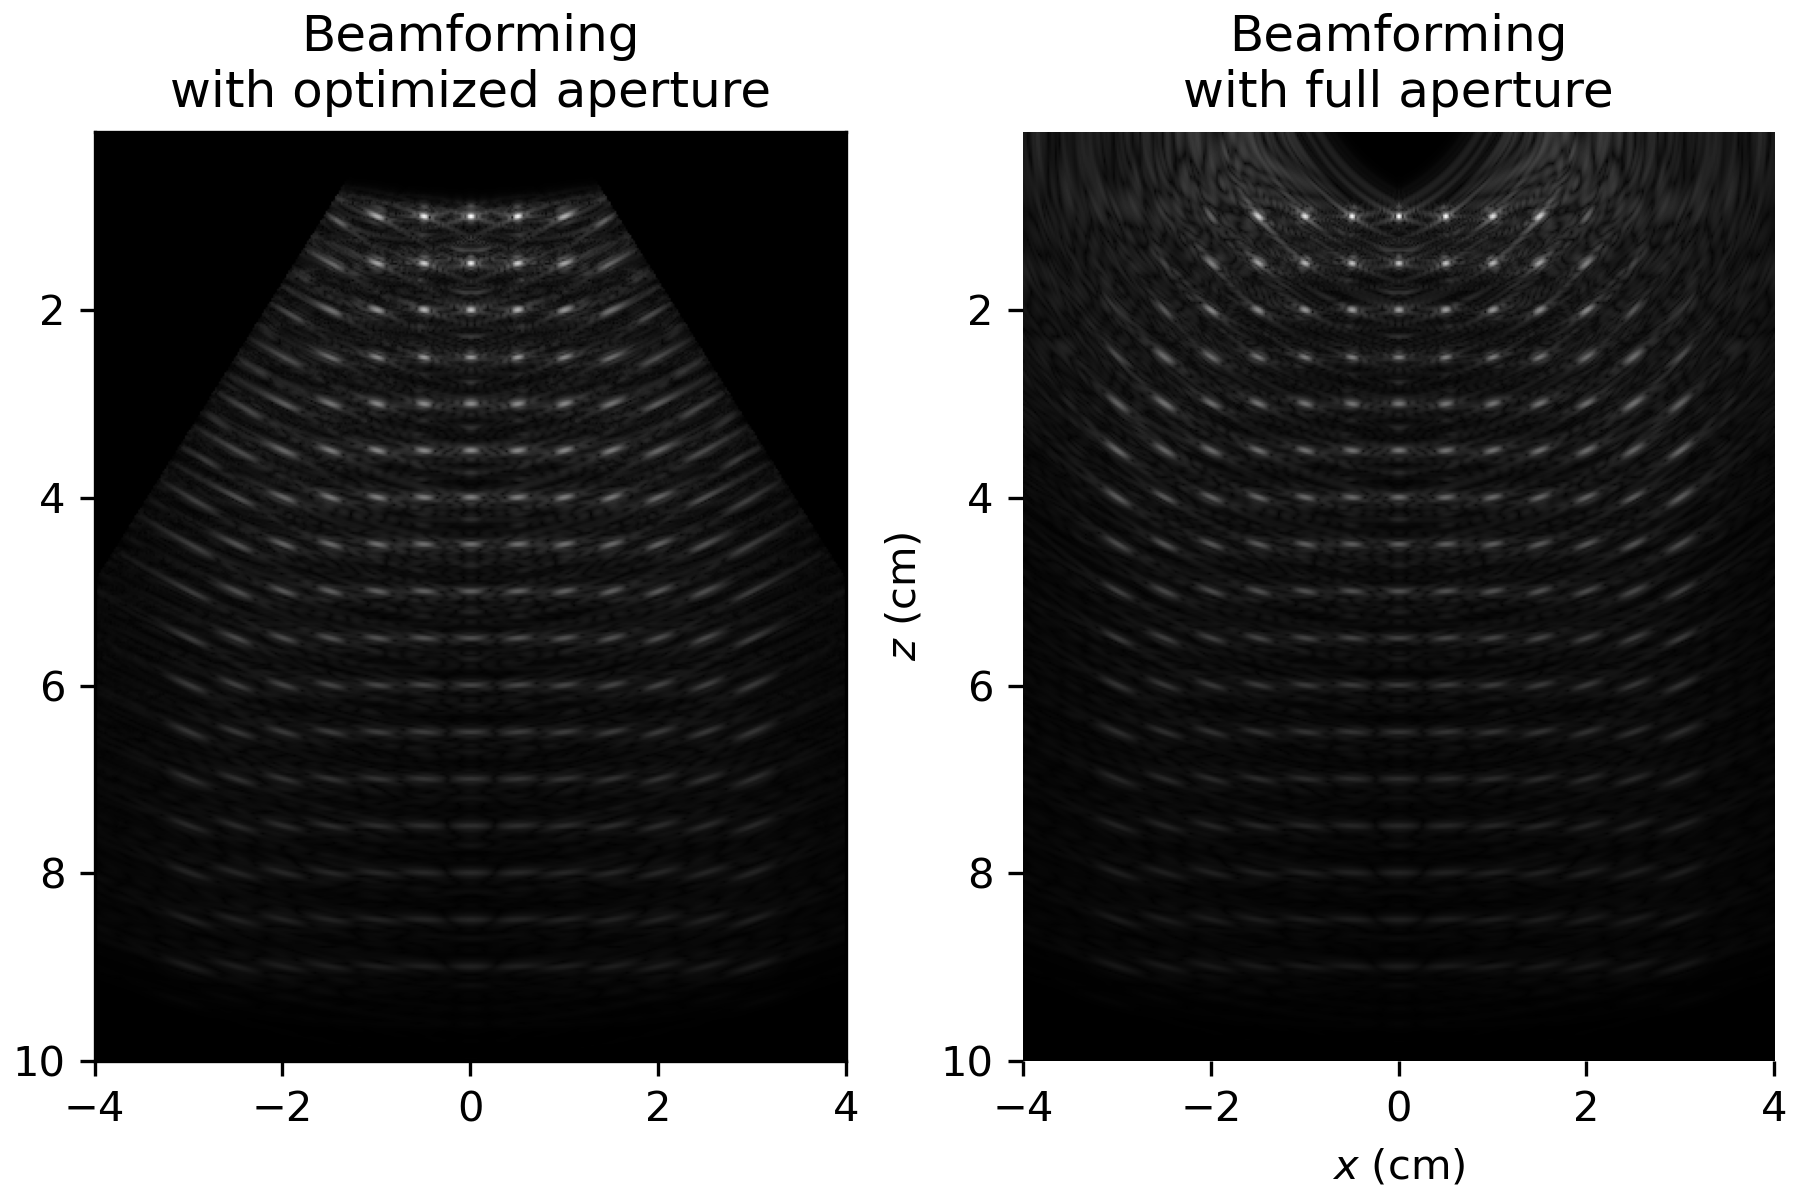
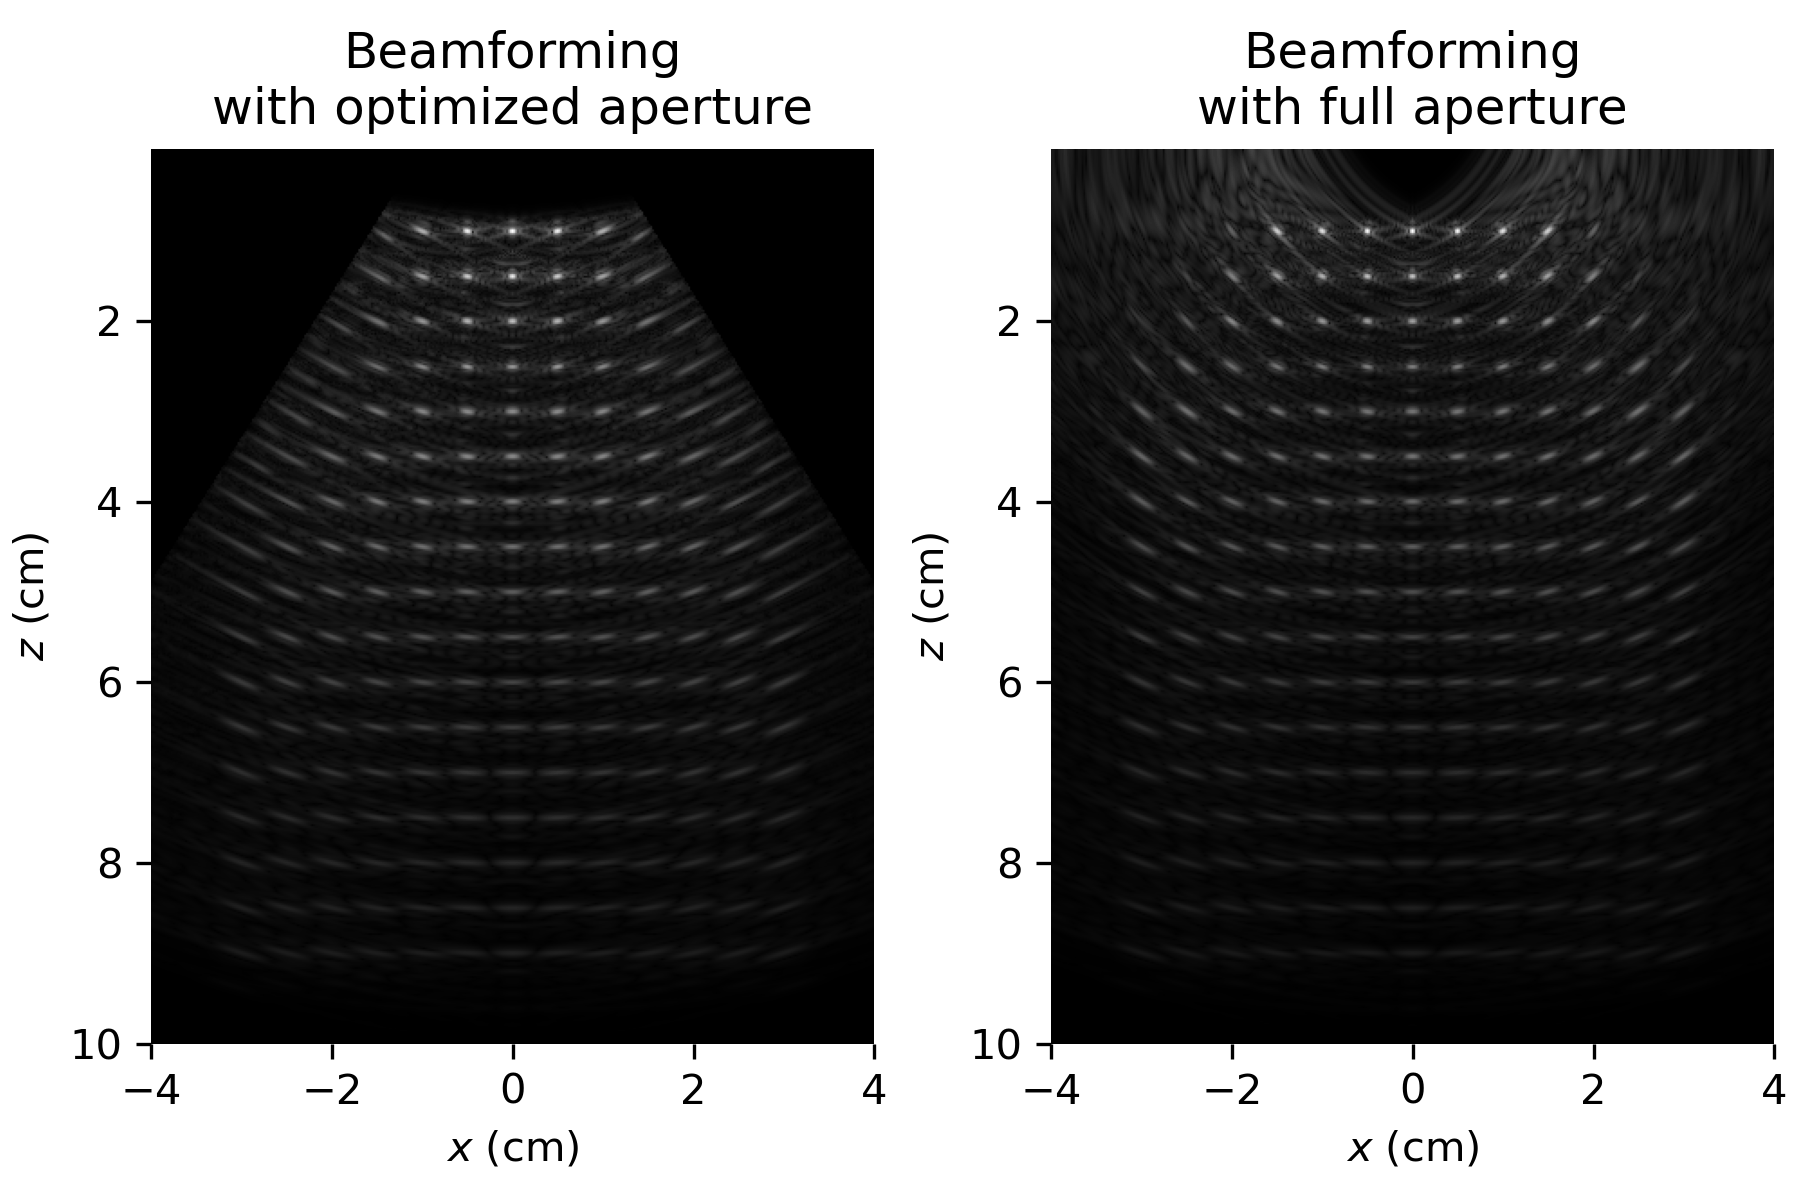
Minor fix

diff --git a/examples/demo-S7-fnumber.py b/examples/demo-S7-fnumber.py
@@ -38,7 +38,6 @@ if __name__ == '__main__':
     fnumber = get_fnumber(ula.width, medium.c/(fc*(1+bandwidth/2)))
     n_samples = 2048
     fs = 10e6
-    time = np.linspace(0, n_samples/fs, n_samples)
     pulse_t = get_tx_pulse_t(n_samples, fs, fc, bandwidth)
 
     x = np.linspace(-4e-2, 4e-2, 400+1)
@@ -88,8 +87,8 @@ if __name__ == '__main__':
         extent=(x[0]*100, x[-1]*100, z[-1]*100, z[0]*100),
     )
     for ax in axs:
-        axs[1].set_xlabel('$x$ (cm)')
-        axs[1].set_ylabel('$z$ (cm)')
-        for spine in axs[1].spines.values():
+        ax.set_xlabel('$x$ (cm)')
+        ax.set_ylabel('$z$ (cm)')
+        for spine in ax.spines.values():
             spine.set_visible(False)
     fig.savefig('fig-S7-fnumber.png', dpi=300)
